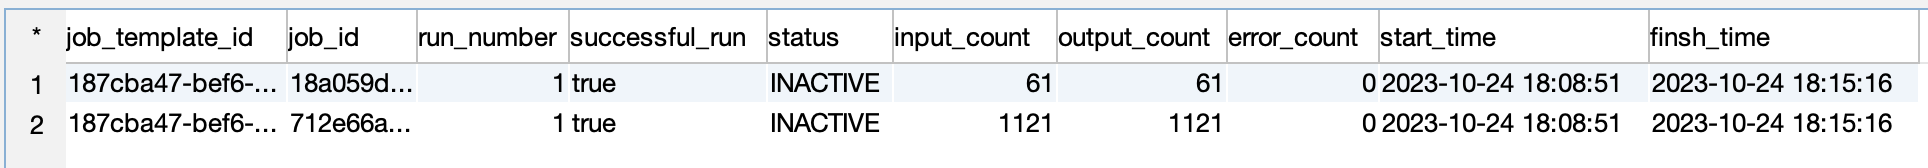
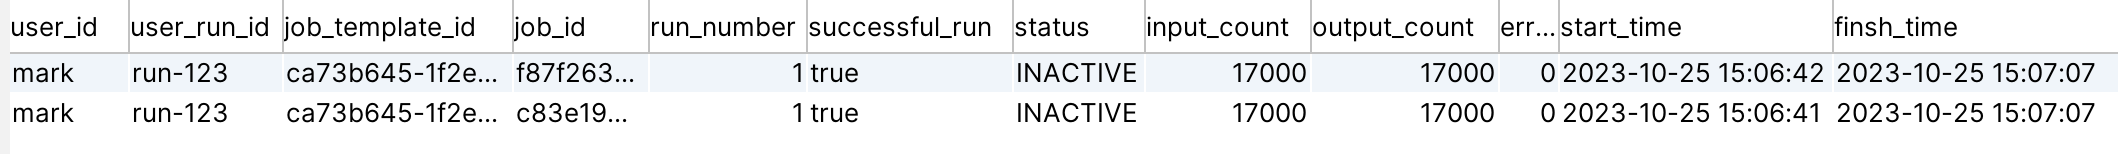
updated metrics table

diff --git a/README.md b/README.md
@@ -77,7 +77,6 @@ password=streamsets
 [streamsets]
 cred_id=<YOUR CRED ID>
 cred_token=<YOUR CRED TOKEN>
-
 ```
 
 - Create or select an existing parameterized pipeline and Job Template in Control Hub
@@ -147,7 +146,7 @@ In a new terminal session, call the service like this, referencing the name of a
         $ curl -X POST \
           "http://localhost:8888/streamsets/job-template-runner" \
           -H "content-type: application/json" \
-          -d '{"job-template-config-name": "template-1-prod-1"}'
+          -d '{"user_id": "mark", "user_run_id": "run-123", "job-template-config-name": "template-1-prod-1"}'
 
 In my case, this config will launch two Job Template Instances.
 
@@ -166,6 +165,8 @@ You should see your Job Template Instances are running:
 
 Once the instances complete, you should see their metrics in the <code>streamsets.job_run_metrics</code> table:
 
+
+<code>SQL> select * from streamsets.job_run_metrics;</code>
 <img src="images/metrics.png" alt="metrics" width="700" />
 
 
